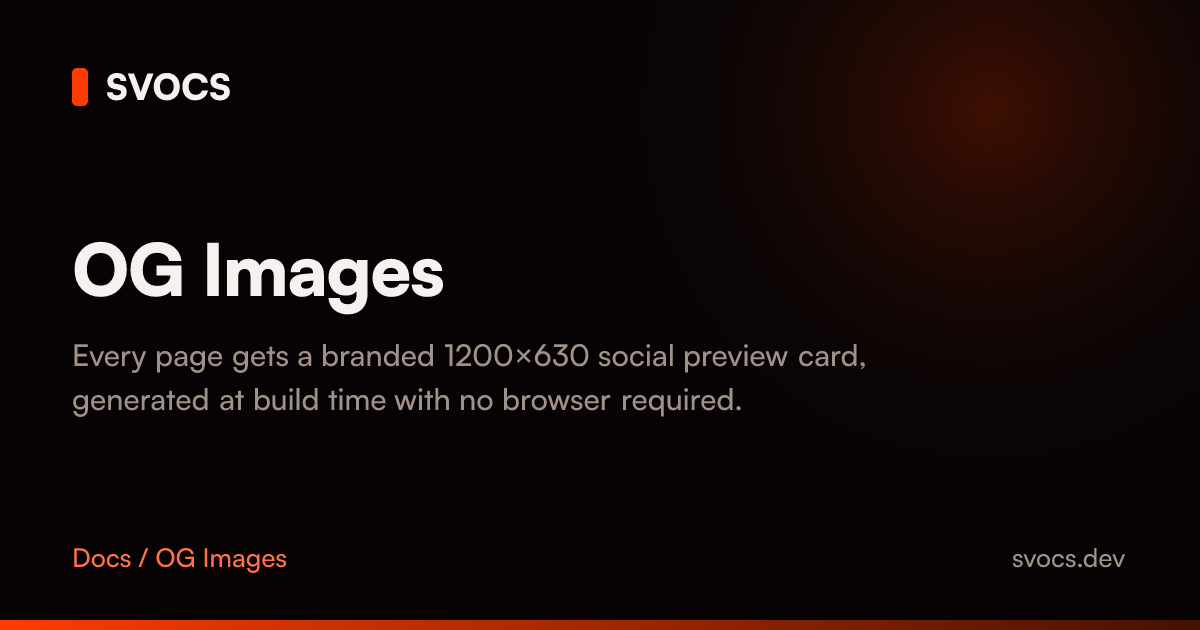
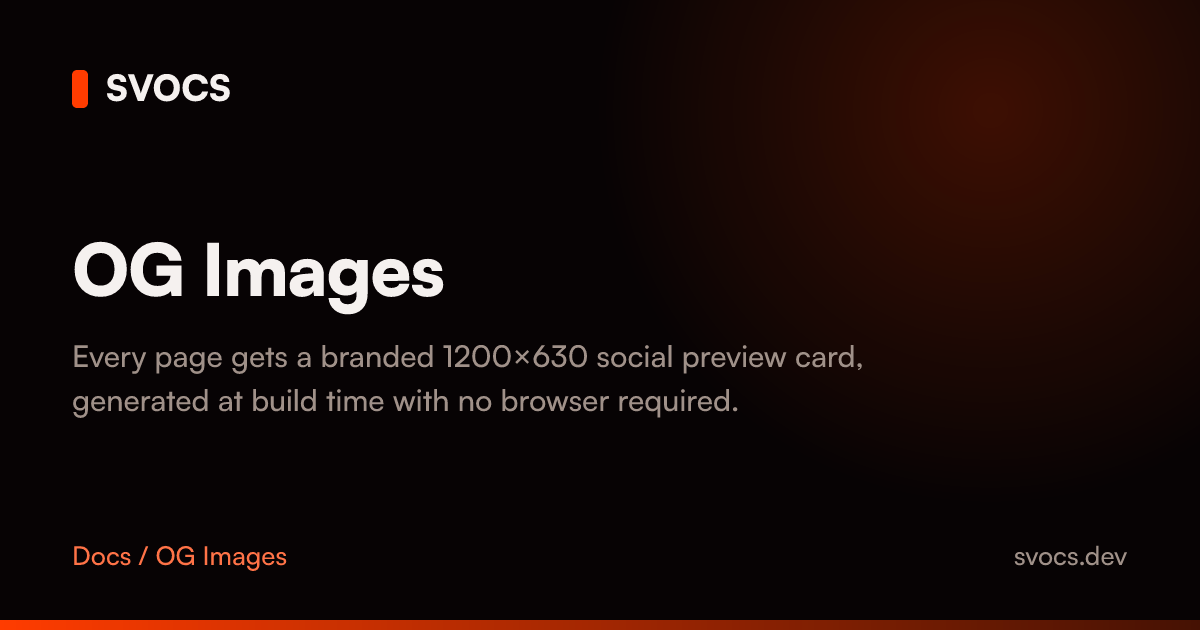
refactor: replace satori and resvg with Takumi for Open Graph card generation
- Updated Open Graph image generation to use Takumi, a Rust renderer, instead of satori and resvg.
- Modified the card generation script to accommodate the new rendering method.
- Adjusted the package dependencies to remove satori and resvg, and added Takumi.
- Enhanced the Banner component to manage dismissal state more effectively.
- Updated layout to conditionally render Open Graph tags based on SITE_URL.
- Incremented version number for create-svocs-docs package.
- Updated example Open Graph card image.

diff --git a/packages/create-svocs-docs/template/src/routes/+layout.svelte b/packages/create-svocs-docs/template/src/routes/+layout.svelte
@@ -11,8 +11,10 @@
 
 	// Every prerendered route gets a matching social card from
 	// scripts/og/generate.mjs (build/og/<route>.png), so the URL derives
-	// straight from the path. Set SITE_URL to make these absolute — most
-	// scrapers require absolute og:image URLs.
+	// straight from the path. The tags only render once SITE_URL is set:
+	// scrapers require absolute og:image URLs, and a relative one would send
+	// SvelteKit's prerender crawler after /og/*.png files that don't exist
+	// until after the build.
 	const currentPath = $derived(page.url.pathname.replace(/\/$/, '') || '/');
 	const ogImage = $derived(`${SITE_URL}/og${currentPath === '/' ? '/index' : currentPath}.png`);
 
@@ -30,11 +32,13 @@
 
 <svelte:head>
 	<meta property="og:site_name" content={SITE_NAME} />
-	<meta property="og:image" content={ogImage} />
-	<meta property="og:image:width" content="1200" />
-	<meta property="og:image:height" content="630" />
-	<meta name="twitter:card" content="summary_large_image" />
-	<meta name="twitter:image" content={ogImage} />
+	{#if SITE_URL}
+		<meta property="og:image" content={ogImage} />
+		<meta property="og:image:width" content="1200" />
+		<meta property="og:image:height" content="630" />
+		<meta name="twitter:card" content="summary_large_image" />
+		<meta name="twitter:image" content={ogImage} />
+	{/if}
 </svelte:head>
 
 <a class="skip" href="#main-content">Skip to content</a>

diff --git a/src/routes/+layout.svelte b/src/routes/+layout.svelte
@@ -14,6 +14,9 @@
 
 	// Every prerendered route gets a matching card from scripts/og/generate.mjs
 	// (build/og/<route>.png), so the URL is derivable straight from the path.
+	// The tags only render once SITE_URL is set: scrapers require absolute
+	// og:image URLs, and a relative one would send SvelteKit's prerender
+	// crawler after /og/*.png files that don't exist until after the build.
 	const ogImage = $derived(`${SITE_URL}/og${currentPath === '/' ? '/index' : currentPath}.png`);
 
 	let searchDialog: ReturnType<typeof SearchDialog> | undefined = $state();
@@ -39,12 +42,14 @@
 	     image URL is derived from the route here in one place (SvelteKit
 	     appends nested svelte:head content, it doesn't replace it). -->
 	<meta property="og:site_name" content={SITE_NAME} />
-	<meta property="og:image" content={ogImage} />
-	<meta property="og:image:width" content="1200" />
-	<meta property="og:image:height" content="630" />
-	<meta property="og:image:alt" content="{SITE_NAME} — Svelte-powered documentation framework" />
-	<meta name="twitter:card" content="summary_large_image" />
-	<meta name="twitter:image" content={ogImage} />
+	{#if SITE_URL}
+		<meta property="og:image" content={ogImage} />
+		<meta property="og:image:width" content="1200" />
+		<meta property="og:image:height" content="630" />
+		<meta property="og:image:alt" content="{SITE_NAME} — Svelte-powered documentation framework" />
+		<meta name="twitter:card" content="summary_large_image" />
+		<meta name="twitter:image" content={ogImage} />
+	{/if}
 </svelte:head>
 
 <a class="skip" href="#main-content">Skip to content</a>

diff --git a/packages/create-svocs-docs/template/src/lib/components/Banner.svelte b/packages/create-svocs-docs/template/src/lib/components/Banner.svelte
@@ -3,14 +3,16 @@
 
 	let { id, children }: { id: string; children: Snippet } = $props();
 
-	// `id` is a stable identity for this banner instance, not something that
-	// should re-trigger dismissal state if it ever changed — read once.
-	let dismissed = $state(
+	// Split into a persisted check (keyed on `id`, so it tracks the banner's
+	// identity) and a session flag for the click itself.
+	let dismissedNow = $state(false);
+	const dismissedBefore = $derived(
 		typeof localStorage !== 'undefined' && localStorage.getItem(`docs-banner-${id}`) === '1'
 	);
+	const dismissed = $derived(dismissedNow || dismissedBefore);
 
 	function dismiss() {
-		dismissed = true;
+		dismissedNow = true;
 		try {
 			localStorage.setItem(`docs-banner-${id}`, '1');
 		} catch {

diff --git a/src/lib/components/Banner.svelte b/src/lib/components/Banner.svelte
@@ -3,14 +3,16 @@
 
 	let { id, children }: { id: string; children: Snippet } = $props();
 
-	// `id` is a stable identity for this banner instance, not something that
-	// should re-trigger dismissal state if it ever changed — read once.
-	let dismissed = $state(
+	// Split into a persisted check (keyed on `id`, so it tracks the banner's
+	// identity) and a session flag for the click itself.
+	let dismissedNow = $state(false);
+	const dismissedBefore = $derived(
 		typeof localStorage !== 'undefined' && localStorage.getItem(`svocs-banner-${id}`) === '1'
 	);
+	const dismissed = $derived(dismissedNow || dismissedBefore);
 
 	function dismiss() {
-		dismissed = true;
+		dismissedNow = true;
 		try {
 			localStorage.setItem(`svocs-banner-${id}`, '1');
 		} catch {

diff --git a/content/og-images.md b/content/og-images.md
@@ -1,6 +1,6 @@
 ## How it works
 
-Every build generates a 1200×630 social preview card for every page, so links shared to Slack, Discord, X, or anywhere else that reads Open Graph tags show a branded card with that page's title and description instead of a generic site image. This page's own card, exactly as scrapers see it:
+Every build generates a 1200×630 social preview card for every page. Links shared to Slack, Discord, X, or anywhere else that reads Open Graph tags get a branded card with that page's title and description instead of a generic site image. This page's own card, exactly as scrapers see it:
 
 ![The social preview card for this page: site name with an accent tick, the page title and description, a breadcrumb, and the site domain on a dark background](/og-card-example.png)
 
@@ -13,7 +13,7 @@ build/index.html         →  build/og/index.png
 
 Each page's `og:image` meta tag points at its card by the same path mapping, so nothing needs to be wired per page. Titles and descriptions are read back out of the built HTML's own `og:title` and `meta description` tags, which means the card can never drift from what the page actually declares.
 
-Rendering uses [satori](https://github.com/vercel/satori) and [resvg](https://github.com/nrsk/resvg-js), no browser involved — builds stay Chromium-free.
+Rendering uses [Takumi](https://takumi.kane.tw/), a Rust renderer with native Node bindings that draws the card straight to PNG, so builds never need Chromium.
 
 ## Set your site URL
 
@@ -23,7 +23,7 @@ Scrapers require absolute `og:image` URLs. Set `SITE_URL` in `src/lib/site.ts` t
 export const SITE_URL = 'https://docs.example.com';
 ```
 
-Until it's set, the tags fall back to relative paths, which most scrapers ignore.
+Until it's set, the `og:image` and `twitter:image` tags are omitted. Scrapers ignore relative image URLs, and a relative URL would also send SvelteKit's prerender crawler looking for cards that haven't been generated yet, which fails the build with a 404. The cards themselves are generated either way, so setting `SITE_URL` is the only step left to turn them on.
 
 ## Custom accent colors
 
@@ -31,9 +31,9 @@ The card reads `--accent` out of `src/routes/+layout.svelte` at generation time,
 
 ## Customizing the card
 
-The entire card layout lives in the `card()` function inside `scripts/og/generate.mjs`, written as a small element tree. Edit it like HTML with inline styles, with one satori rule to know: every element with children must declare `display: 'flex'`.
+The entire card layout lives in the `card()` function inside `scripts/og/generate.mjs`, written as a small element tree. Edit it like HTML with inline styles.
 
-Satori supports a focused CSS subset (flexbox, gradients, border-radius, line clamping). If a style seems ignored, check the [satori documentation](https://github.com/vercel/satori#css) for what's supported.
+Takumi supports a broad CSS subset (flexbox, grid, gradients, border-radius, line clamping, shadows). If a style seems ignored, check the [Takumi documentation](https://takumi.kane.tw/) for what's supported.
 
 ## Skipping generation
 